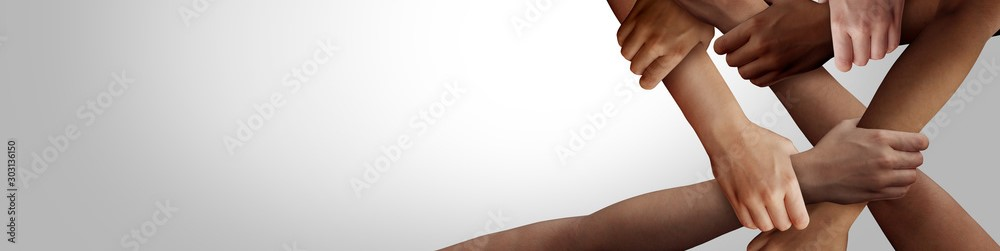
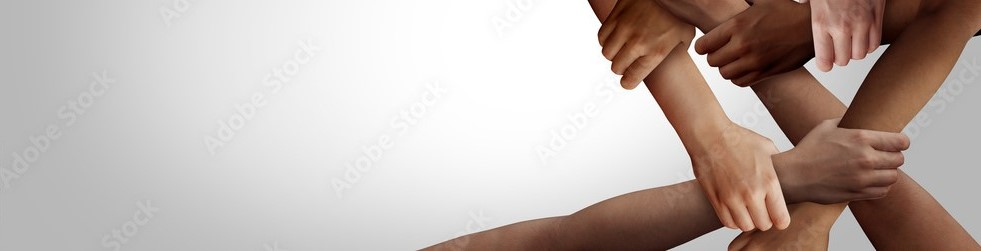
text an images on about page

diff --git a/about.html b/about.html
@@ -133,12 +133,38 @@
     </div>
     <!-- END NAVBAR -->
     <div class="hero">
-      <img src="./img/about/ABOUTbannerHandsCut2.jpg" alt="banner image- hands supporting each other in a ring" height="" />
+      <img src="./img/about/ABOUTbannerHandsText.jpg" alt="banner image- hands supporting each other in a ring" height="" />
     </div>
-    <h1>About</h1>
+   
+    <h2>Our company is named after a physical phenomenon that takes place on earth, bringing huge changes and transformaton</h2>
+    <h3>Our focus is to build robust websites while driving our customers to digital success.</h3>
+    <div>
+      <h3>
+        <ul>
+          <li> We Design competitive websites</li>
+          <li>Help our clients with SEO</li>
+          <li>Guarantee our clients rank high and beat their competitors</li>
+        </ul>
+      </h3>
+    </div>
+    <div class="hero">
+      <img src="./img/about/ABOUTwebTrafficCrop.jpg" alt="arrow shooting up with web traffic written above" height="" />
+    </div>
+
+    <div class="hero">
+      <img src="./img/about/ABOUTwhoAreWe.jpg" alt="who are we" height="" />
+    </div>
+<h2>We are a diverse team of women web developers and online marketers who finished our digital studies in Berlin and gained experience in several start up company</h2>
+<h2>Our passion to create a change, same as the hurricane does, brought us to Johannesburg</h2>
+<h1>We don't only want to collaborate with different businesses to lead them to success, but also to have an impact on the local community.</h1>
+
+<div>
+  <h2>We are currently collaborating with  the  local authorities in order to establish internet hotspots 
+    that would give hundreds of people access to education and business </h2>
+</div>
 
 
-
+<!-- PROFILES -->
         <div class="container">
       <div class="new teams about" id="news">
         <h3 class="text-center display-5 p-2">The Hurricanes</h3>
@@ -217,6 +243,9 @@
       </div>
     </div>
     <!-- End PROFILES -->
+    <div class="hero">
+      <img src="./img/about/ABOUTcollaboration.jpg" alt="cllaboration written over city scape" height="" />
+    </div>
     <footer>
       <div class="foot">
         <div class="contac_foot">

diff --git a/blog.html b/blog.html
@@ -133,14 +133,14 @@
     </div>
     <!-- END NAVBAR -->
     <div class="hero">
-      <img src="./img/hero picture.jpg" alt="" />
+      <img src="./img/blog2/africa 1.jpg" alt="image of africa tech style" height="350px" />
     </div>
 <h1>blog</h1>
-<img src="/img/blog2/africa 1.jpg  " alt="" height="300px">
-<img src="/img/blog2/africa 4.jpeg" alt="" height="300px">
-<img src="/img/blog2/computer school.jpg" alt="" height="300px">
-<img src="/img/blog2/computer.jpg" alt="" height="300px">
-<img src="/img/blog2/home_pic_1b.jpg" alt="" height="300px">
+<img src="/img/blog2/africa 4.jpeg" alt="city scape" height="300px">
+<img src="/img/blog2/computer school.jpg" alt="kids on computer" height="300px">
+
+<img src="/img/blog2/computer.jpg" alt="lots of kids on one computer" height="300px">
+<img src="/img/blog2/home_pic_1b.jpg" alt="people looking up" height="300px">
 
 
 <footer>
